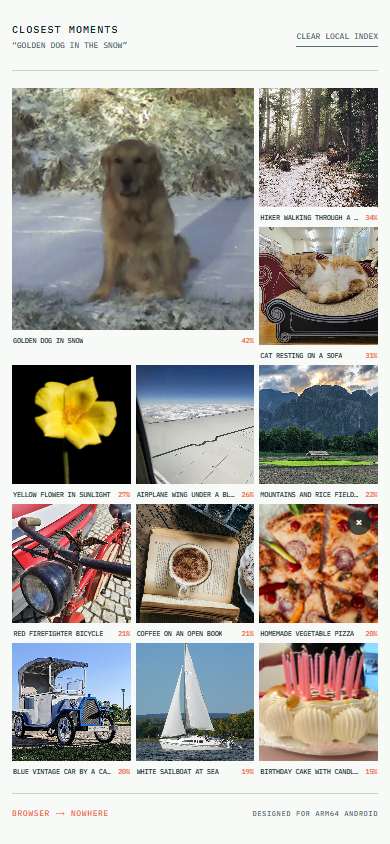
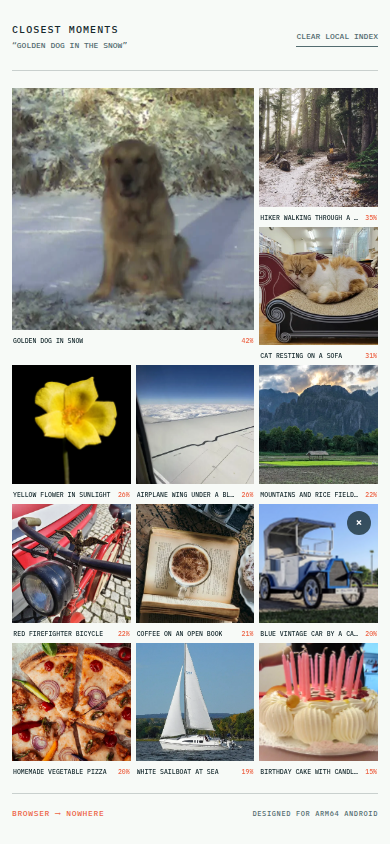
docs: publish native Arm browser proof

diff --git a/docs/SUBMISSION.md b/docs/SUBMISSION.md
@@ -9,6 +9,7 @@
 - **Public source:** https://github.com/TAUIL-Abd-Elilah/pinhole-ai
 - **License:** MIT
 - **Arm evidence:** https://github.com/TAUIL-Abd-Elilah/pinhole-ai/actions/runs/31557654775
+- **Native Arm browser proof:** https://github.com/TAUIL-Abd-Elilah/pinhole-ai/actions/runs/31558535128
 
 ## Project overview
 
@@ -80,6 +81,14 @@ test—not a claim of general model accuracy.
 A second independent Arm run is retained in the repository. Across both runs,
 the one-thread text-query speedup is 11.30–11.35x and the exact-scan speedup is
 3.54–3.58x.
+
+The workflow also installs native Arm64 Chromium and executes the complete PWA,
+not only the native benchmark harnesses. Run `31558535128` built the production
+app on Cobalt, indexed all 12 real photographs in a 390×844 mobile viewport,
+searched “golden dog in the snow,” returned the dog first, and captured the frame
+used in the project cover. Live smoke telemetry reported two WASM threads and a
+9.3 ms text encode with zero console or request errors. That single UI timing is
+reported as smoke telemetry, not as a benchmark median.
 
 ## What is original and reusable
 

diff --git a/docs/media/README.md b/docs/media/README.md
@@ -1,0 +1,14 @@
+# Submission media provenance
+
+- `pinhole-mobile.png` was captured by native Arm64 Chromium on the Microsoft
+  Cobalt 100 runner in Actions run
+  [`31558535128`](https://github.com/TAUIL-Abd-Elilah/pinhole-ai/actions/runs/31558535128).
+  The automated flow built the PWA, indexed 12 attributed photographs, searched
+  for “golden dog in the snow,” asserted the dog ranked first, and failed on any
+  console or request error.
+- `pinhole-cover.png` is rendered by `tools/render-cover.mjs` from that Arm
+  screenshot and the committed benchmark results.
+- `pinhole-search.png` is the corresponding full desktop development capture.
+
+All visible demo-photo creators and licenses are listed in
+[`public/demo/ATTRIBUTION.md`](../../public/demo/ATTRIBUTION.md).

diff --git a/README.md b/README.md
@@ -80,6 +80,14 @@ MAD, exact model hashes, environment, and Actions identity. See the
 [`committed evidence`](bench/results/cobalt-31557654775/) and
 [methodology](bench/README.md).
 
+This is not only a native harness. Run
+[`31558535128`](https://github.com/TAUIL-Abd-Elilah/pinhole-ai/actions/runs/31558535128)
+installed Arm64 Chromium on Cobalt, built the production PWA, loaded and embedded
+all 12 photographs at a 390×844 mobile viewport, and ranked the dog first with
+two WASM threads and zero console/request errors. Its captured Arm frame appears
+in the cover image above; the 9.3 ms text timing shown in that smoke run is live
+telemetry, not a multi-sample benchmark claim.
+
 Three benchmark harnesses reproduce the claims:
 
 ```bash
